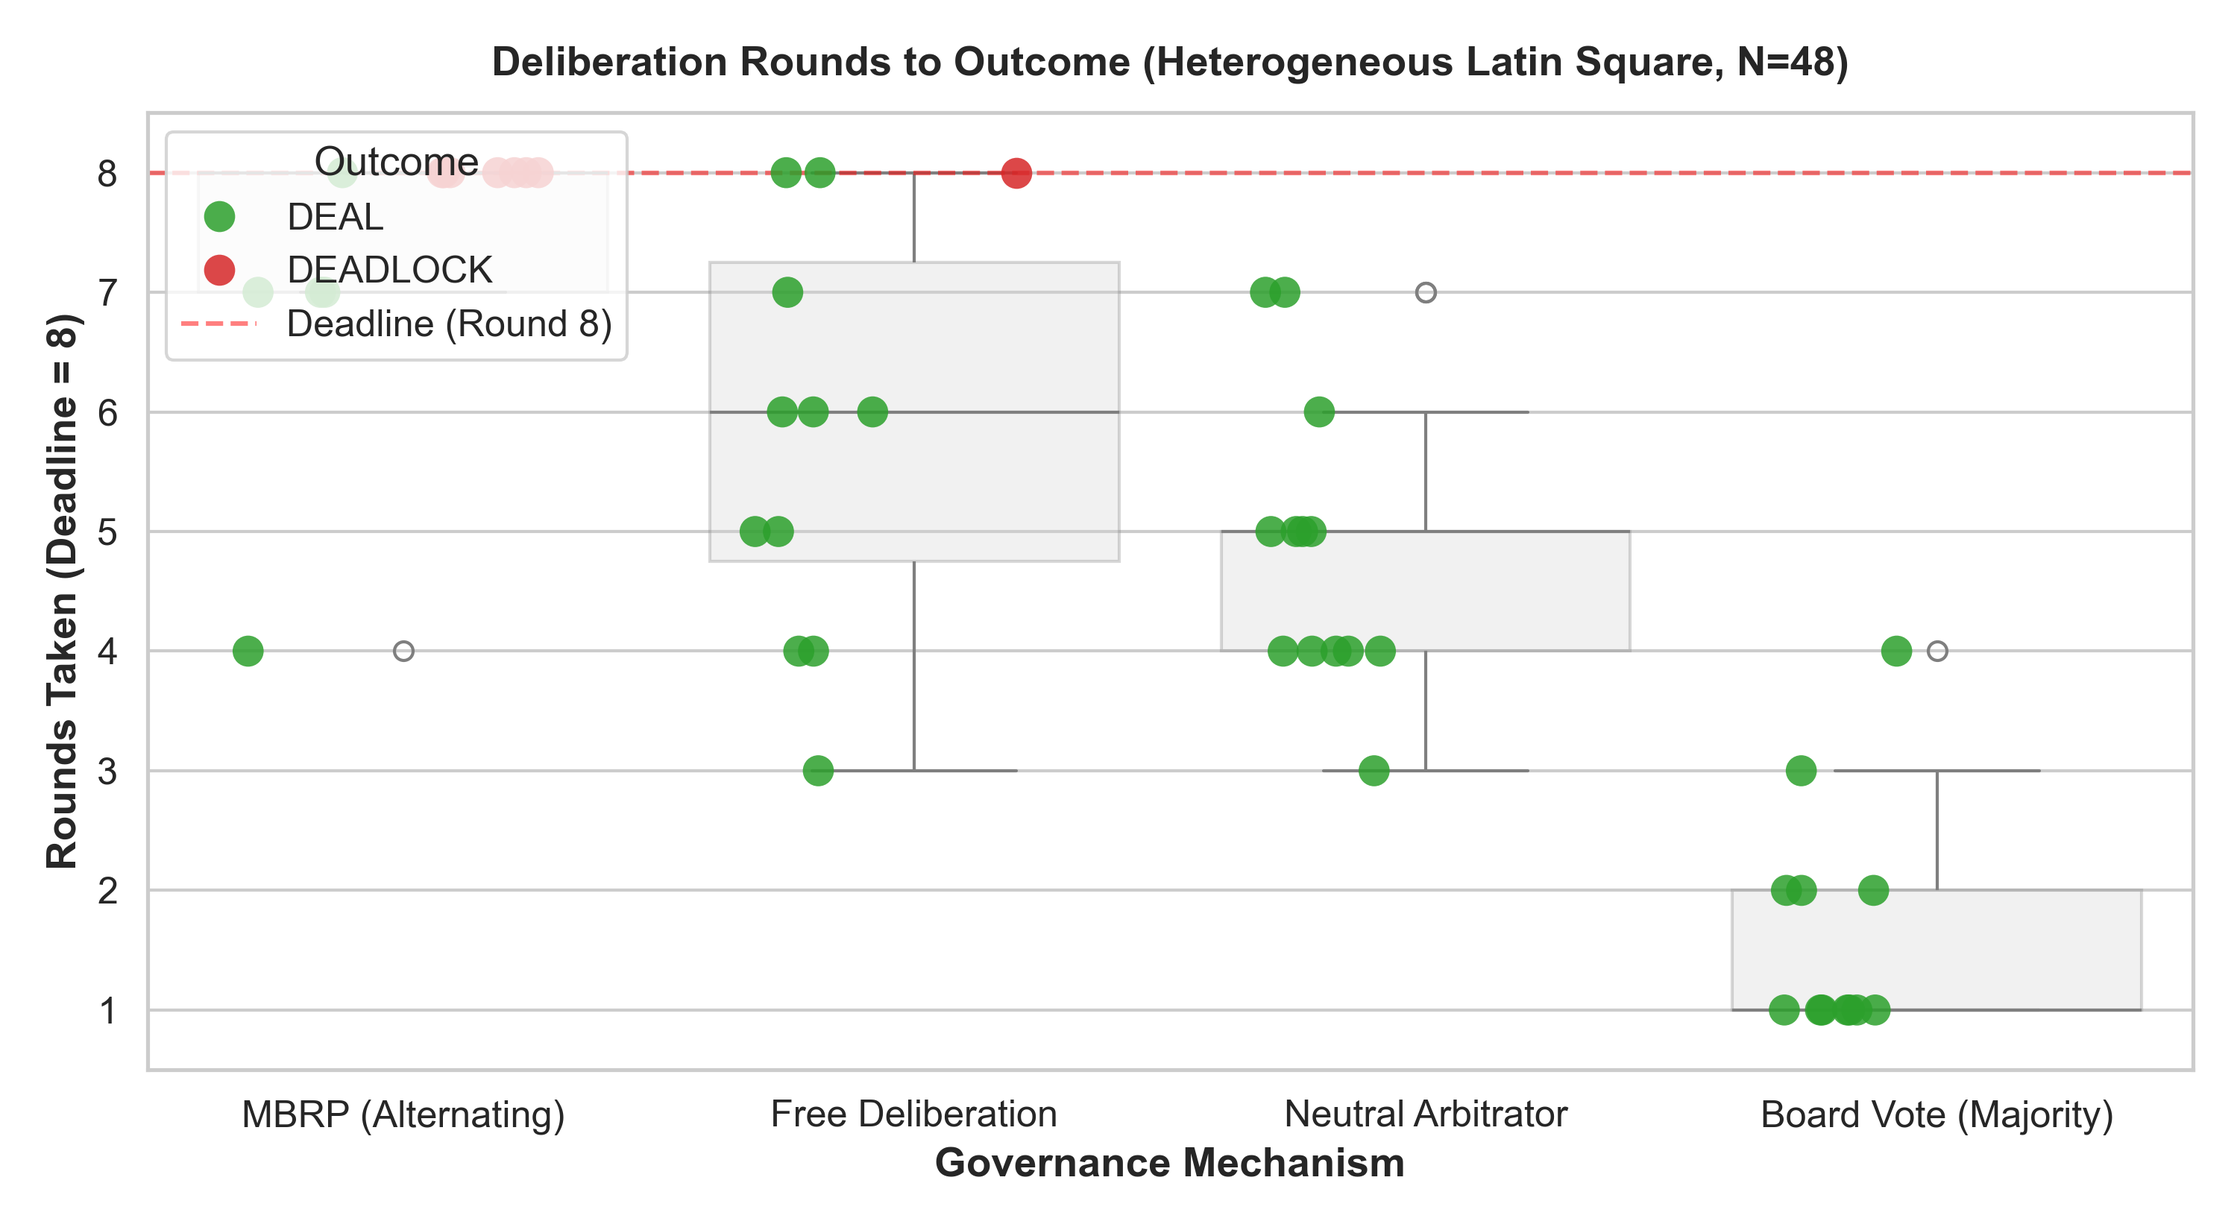
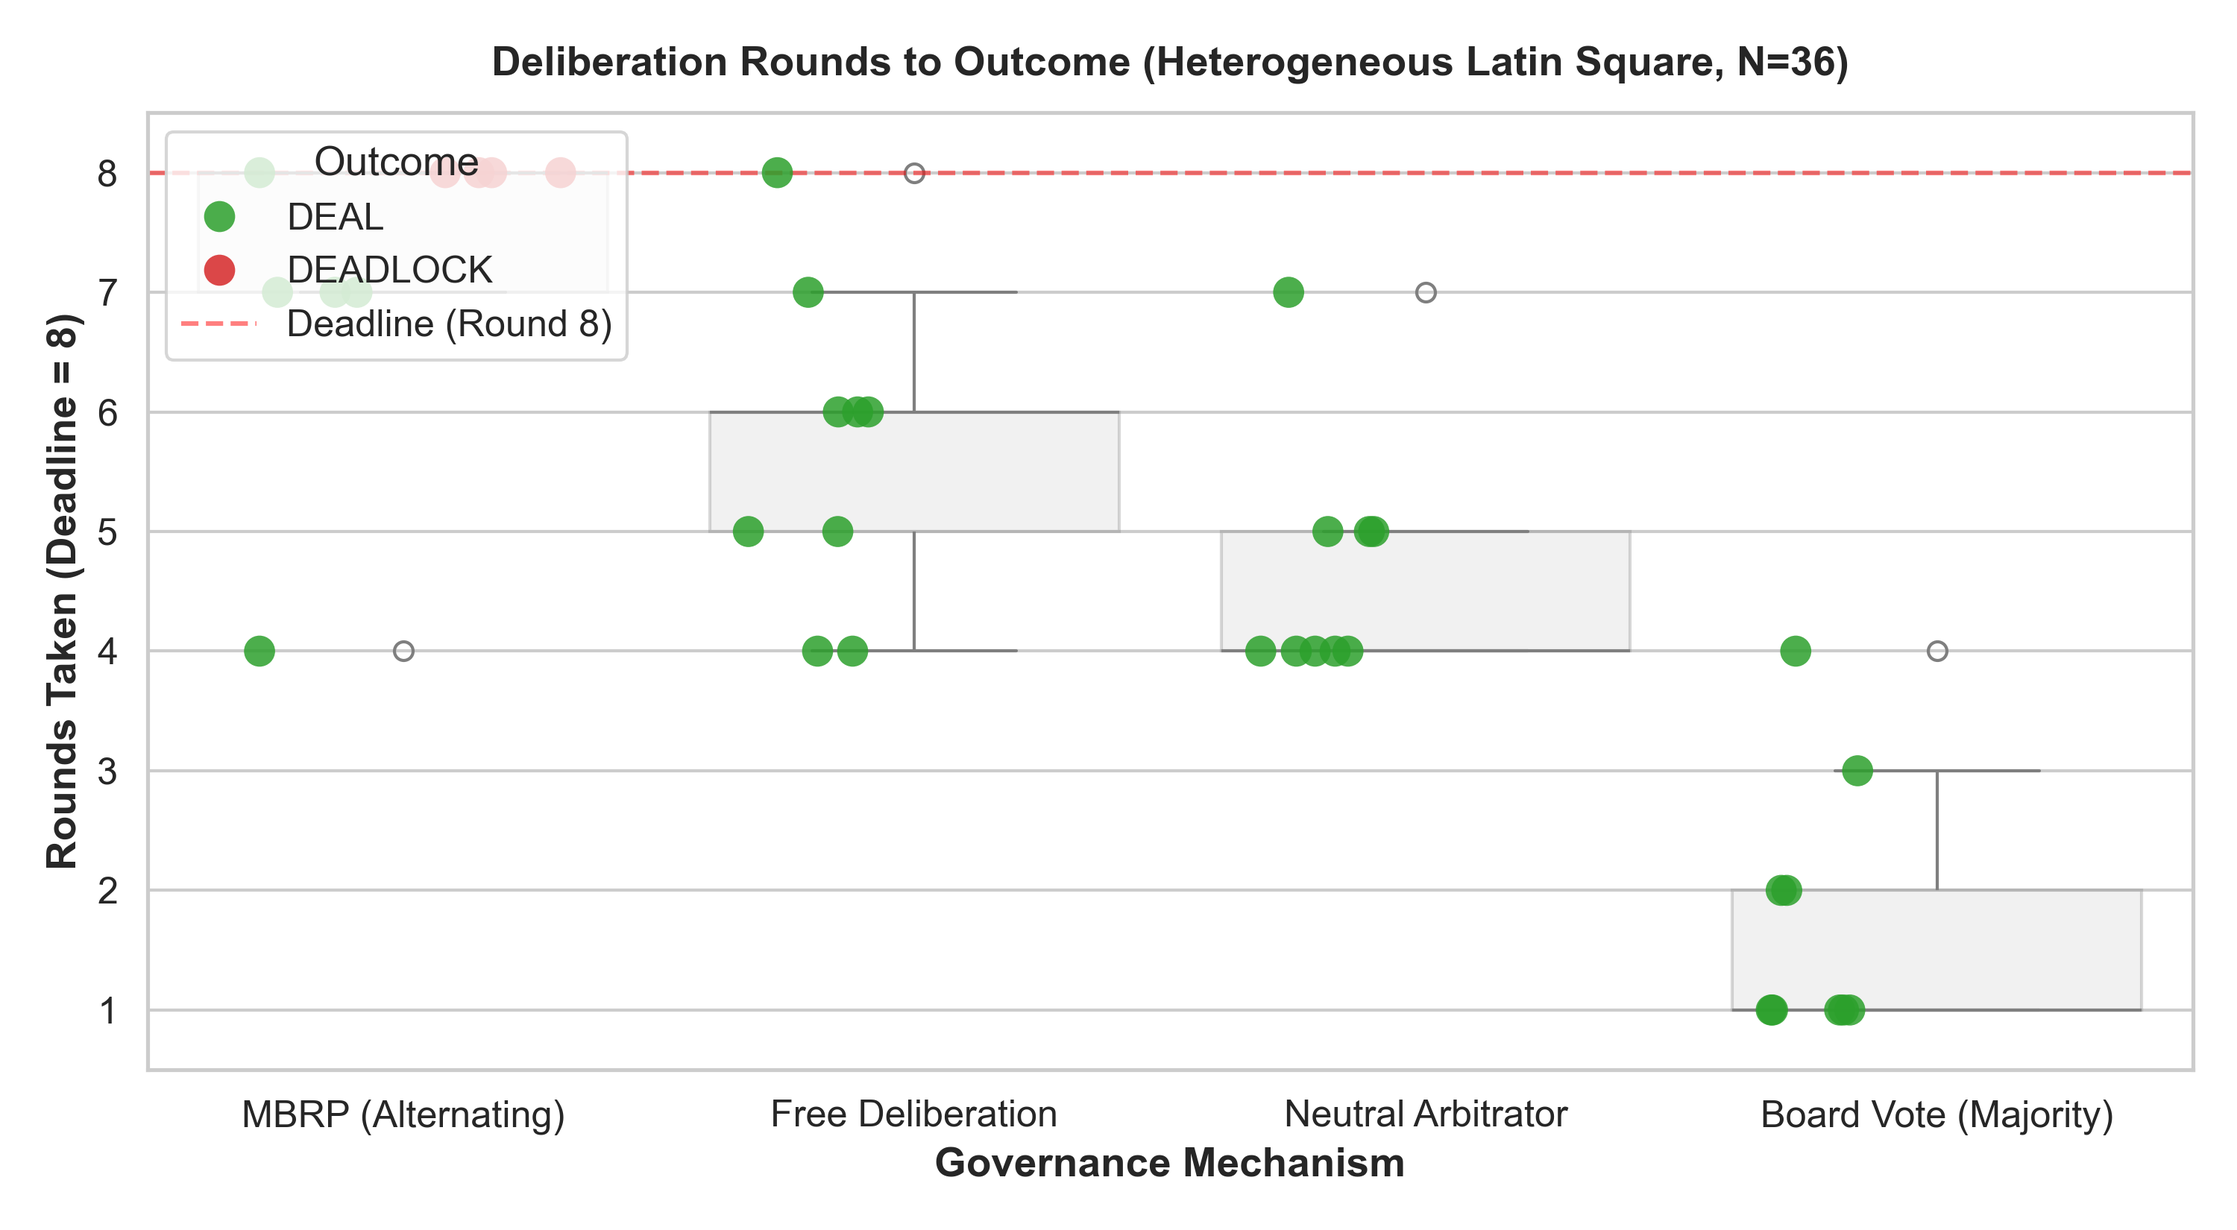
Updated README, implementation plan, and plots to reflect 36-game Latin Square experiment

diff --git a/scripts/generate_paper_artifacts.py b/scripts/generate_paper_artifacts.py
@@ -25,7 +25,16 @@ def load_and_clean_data():
     def categorize_run(row):
         rid = str(row["run_id"])
         if rid.startswith("mixed_"):
-            return "Heterogeneous (Latin Square)"
+            try:
+                tokens = rid.split("_")
+                ts = int(tokens[-2])
+            except Exception:
+                ts = 0
+            # Strictly select the 9-run Latin Square batch (36 games, timestamps >= 1795068000)
+            if ts >= 1795068000:
+                return "Heterogeneous (Latin Square)"
+            else:
+                return "Heterogeneous (Initial Pilot)"
         elif "gemini-3.5-flash-lite" in rid or "gemini-3.8-flash" in rid:
             return "Homogeneous (Gemini Baseline)"
         else:
@@ -148,7 +157,7 @@ def plot_rounds_distribution(df):
         ax=ax
     )
 
-    ax.set_title("Deliberation Rounds to Outcome (Heterogeneous Latin Square, N=48)", fontweight="bold", pad=12)
+    ax.set_title("Deliberation Rounds to Outcome (Heterogeneous Latin Square, N=36)", fontweight="bold", pad=12)
     ax.set_xlabel("Governance Mechanism", fontweight="bold")
     ax.set_ylabel("Rounds Taken (Deadline = 8)", fontweight="bold")
     ax.set_ylim(0.5, 8.5)
@@ -183,7 +192,7 @@ def plot_board_vote_coalitions(df):
     colors = ["#d95f02", "#1b9e77", "#7570b3"]
     bars = ax.bar(coalition_counts["clean_label"], coalition_counts["count"], color=colors, width=0.55, edgecolor="black")
 
-    ax.set_title("Winning 2-vs-1 Coalitions in Board Vote (N=12 Games)", fontweight="bold", pad=12)
+    ax.set_title("Winning 2-vs-1 Coalitions in Board Vote (N=9 Games)", fontweight="bold", pad=12)
     ax.set_xlabel("Majority Coalition Formed", fontweight="bold")
     ax.set_ylabel("Number of Games Passed", fontweight="bold")
     ax.set_ylim(0, 8)
@@ -201,7 +210,7 @@ def plot_board_vote_coalitions(df):
 
 
 def plot_latin_square_model_surplus(df):
-    """Figure 4: Average Payoff & Net Surplus by LLM Provider across Latin Square (N=48)."""
+    """Figure 4: Average Payoff & Net Surplus by LLM Provider across Latin Square (N=36)."""
     sns.set_theme(style="whitegrid", font_scale=1.1)
     fig, ax = plt.subplots(figsize=(9, 5.5))
 
@@ -248,7 +257,7 @@ def plot_latin_square_model_surplus(df):
     colors = ["#4285F4", "#10A37F", "#CC785C"]
     bars = ax.bar(summary["model"], summary["avg_surplus"], color=colors, width=0.5, edgecolor="black")
 
-    ax.set_title("Normalized Surplus Extracted by LLM Provider (Latin Square N=48)", fontweight="bold", pad=12)
+    ax.set_title("Normalized Surplus Extracted by LLM Provider (Latin Square N=36)", fontweight="bold", pad=12)
     ax.set_xlabel("LLM Provider / Model", fontweight="bold")
     ax.set_ylabel("Average Net Surplus Extracted Above Outside Option ($)", fontweight="bold")
     ax.yaxis.set_major_formatter('${x:,.0f}')

diff --git a/README.md b/README.md
@@ -76,12 +76,17 @@ Three AI agents represent fictional corporate entities forming a joint venture t
 
 ## 4. Experimental Matrix & Infrastructure
 
-- **Grid:** 4 Conditions $\times$ 2 Model Tiers $\times$ 10 Runs = **80 Full Negotiations** (2,400+ multi-agent LLM invocations).
-- **Model Tiers:**
-  - `gemini-3.5-flash-lite` (Efficiency tier; `MINIMAL` thinking budget).
-  - `gemini-3.8-flash` (Reasoning tier; `LOW` thinking budget with internal chain-of-thought).
-- **Execution & Security:** Local execution in conda environment `ai-gov`, authenticated with GCP Vertex AI via Application Default Credentials (ADC) under project `ai-gov-514900`.
-- **Validation:** Native Pydantic schema validation (`sum == 1,000,000`, integer allocations, non-negative amounts).
+We evaluate governance mechanisms across two complementary experimental paradigms:
+
+1. **Homogeneous Baseline Matrix (80 Negotiations):**
+   - 4 Conditions $\times$ 2 Model Tiers (`gemini-3.5-flash-lite` vs. `gemini-3.8-flash`) $\times$ 10 Runs.
+   - Evaluates intra-model consensus, baseline capability thresholds, and institutional sensitivity.
+2. **Heterogeneous Latin Square Matrix (36 Negotiations):**
+   - 4 Conditions $\times$ 3 Competing Frontier Providers (**Anthropic Claude Haiku 5.5**, **OpenAI GPT-6 Luna**, **Google Gemini 3.8 Flash**) $\times$ 3 Balanced Latin Square Cycles ($N = 9$ runs per condition).
+   - Seating rotates round-robin via $\text{ModelIndex} = (\text{RoleIndex} + \text{RunIndex}) \pmod 3$, completely isolating model bargaining power from economic outside-option leverage.
+   - Fixed court-appointed Arbitrator pinned to **Google Gemini 3.8 Flash** with reasoning (`thinking_level="LOW"`).
+3. **Execution & Security:** Local execution in conda environment `ai-gov`, authenticated with GCP Vertex AI via ADC (`ai-gov-514900`), Anthropic API, and OpenAI API with zero secrets stored in Git.
+4. **Validation:** Native Pydantic schema validation (`sum == 1,000,000`, integer allocations, non-negative amounts, typed `Ballot` models).
 
 ---
 
@@ -166,12 +171,34 @@ Across all 80 runs, we measure each firm's disclosure propensity, mean dollar cl
 
 ---
 
-## 6. Visualizations
+### 5.6 Heterogeneous Latin Square Findings (36 Games, N=9 per Condition)
 
-- **Deal Rates Comparison:**  
-  [`results/deal_rate_comparison.png`](file:///c:/Users/anany/Desktop/AI%20Gov/final_project/results/deal_rate_comparison.png)
-- **Payoffs by Company Across Conditions:**  
-  [`results/payoffs_by_company.png`](file:///c:/Users/anany/Desktop/AI%20Gov/final_project/results/payoffs_by_company.png)
+To evaluate multi-agent bargaining under true provider diversity, we executed **36 games** across 3 balanced Latin Square cycles ($N=9$ runs per condition) with **Claude Haiku 5.5**, **GPT-6 Luna**, and **Gemini 3.8 Flash** competing simultaneously:
+
+| Governance Mechanism | Total Runs | Deals Reached | Deal Rate (%) | Mean Rounds | Realized Surplus | Surplus Efficiency | Mean Payoff: G-Corp (\$450k) | Mean Payoff: Yang (\$300k) | Mean Payoff: Chang-Liu (\$100k) |
+| :--- | :---: | :---: | :---: | :---: | :---: | :---: | :---: | :---: | :---: |
+| **Neutral Arbitrator** *(Mediated)* | 9 | 9 | **100.0%** | **4.7** | **\$150,000** | **100.0%** | \$468,333 | \$325,556 | \$206,111 |
+| **Board Vote** *(Majority Rule)* | 9 | 9 | **100.0%** | **1.8** | **\$150,000** | **100.0%** | \$404,444 | \$325,556 | \$270,000 |
+| **Free Deliberation** *(Unstructured)* | 9 | 9 | **100.0%** | **5.7** | **\$150,000** | **100.0%** | \$452,222 | \$310,000 | \$237,778 |
+| **MBRP** *(Strict Alternating)* | 9 | 5 | **55.6%** | **7.2** | **\$83,333** | **55.6%** | \$445,000 | \$305,556 | \$182,778 |
+
+* **The 55.6% "Underdog Alliance" in Board Voting:** In **5 out of 9 games (55.6%)**, the two economically vulnerable firms (**Yang Industries** and **Chang-Liu Cloud Services**) allied in a 2-vs-1 majority to outvote the dominant chip designer (G-Corp), capturing massive surpluses (Chang-Liu averaged **\$270,000**, a **+\$170k windfall** over its \$100k walkaway).
+* **Arbitration Guarantees Pareto-Optimality:** Neutral Arbitration reached **100% agreement** with **zero walkaway violations**, achieving the closest convergence to the symmetric Nash bargaining solution (\$69k distance).
+* **The Unanimity Curse:** Under MBRP, rigid sequential vetoes led to a **44.4% deadlock rate**, destroying \$66,667 in cooperative surplus per failure.
+* **Normalized Model Capability Benchmark (N=36 Player-Games Each):**
+  - **Google Gemini 3.8 Flash:** **\$342,083** average payoff (**+\$58,750** surplus above walkaway)
+  - **OpenAI GPT-6 Luna:** **\$333,333** average payoff (**+\$50,000** surplus above walkaway)
+  - **Anthropic Claude Haiku 5.5:** **\$307,917** average payoff (**+\$24,584** surplus above walkaway)
+
+---
+
+## 6. Publication Visualizations
+
+All 300-DPI publication figures are generated and stored in [`results/plots/`](file:///c:/Users/anany/Desktop/AI%20Gov/final_project/results/plots/):
+- **Figure 1 (Governance Mechanism Efficiency):** [`results/plots/fig1_governance_efficiency.png`](file:///c:/Users/anany/Desktop/AI%20Gov/final_project/results/plots/fig1_governance_efficiency.png)
+- **Figure 2 (Deliberation Rounds to Agreement):** [`results/plots/fig2_rounds_distribution.png`](file:///c:/Users/anany/Desktop/AI%20Gov/final_project/results/plots/fig2_rounds_distribution.png)
+- **Figure 3 (Baron-Ferejohn Coalitional Breakdown):** [`results/plots/fig3_board_vote_coalitions.png`](file:///c:/Users/anany/Desktop/AI%20Gov/final_project/results/plots/fig3_board_vote_coalitions.png)
+- **Figure 4 (Normalized Model Surplus Extraction):** [`results/plots/fig4_latin_square_model_surplus.png`](file:///c:/Users/anany/Desktop/AI%20Gov/final_project/results/plots/fig4_latin_square_model_surplus.png)
 
 ---
 
@@ -179,43 +206,42 @@ Across all 80 runs, we measure each firm's disclosure propensity, mean dollar cl
 
 ```text
 final_project/
-├── IMPLEMENTATION_PLAN.md    # Master architectural contract
+├── IMPLEMENTATION_PLAN.md    # Master architectural contract & phase roadmap
 ├── README.md                 # This overview document
 ├── config.yaml               # Model parameters & experimental settings (4 conditions)
 ├── requirements.txt          # Python dependencies
 │
-├── ideation/                 # Evolution & review documentation
-│   ├── ANTIGRAVITY_GCP_HANDOFF.md
-│   ├── ASSESSMENT_CHATGPT_SUGGESTIONS.md
-│   └── PROTOCOL_SUMMARY.md
-│
-├── src/                      # Core implementation
+├── src/                      # Core multi-provider implementation
 │   ├── agents.py             # Agent prompts & structured turn wrappers
-│   ├── llm.py                # Vertex AI client adapter & backoff retry logic
+│   ├── llm.py                # Multi-provider gateway (Vertex AI, Anthropic, OpenAI, Ollama)
 │   ├── metrics.py            # Nash distance, coalition breakdown & bluffing metrics
-│   ├── orchestrator.py       # Multi-run experiment engine
-│   ├── schemas.py            # Pydantic schemas for structured JSON output
-│   ├── storage.py            # Event logging & summary appending (38 columns)
+│   ├── orchestrator.py       # Multi-run experiment engine (homogeneous & mixed-model)
+│   ├── schemas.py            # Pydantic schemas for structured JSON output & typed Ballot
+│   ├── storage.py            # Windows-hardened event logging & summary.csv appending
 │   ├── validators.py         # Arithmetic & walk-away domain checks
 │   └── conditions/           # State machines
 │       ├── base.py           # Shared base protocol & result compiler
 │       ├── mbrp.py           # Rotating proposer protocol
 │       ├── board_vote.py     # Deliberation, motion, and ballot voting
-│       ├── arbitrator.py     # Confidential caucusing and neutral award
+│       ├── arbitrator.py     # Confidential caucusing and neutral award (pinned Gemini judge)
 │       └── free_negotiation.py # Conversational turn-based bargaining
 │
 ├── scripts/                  # Executable entry points
-│   ├── run_experiments.py    # Master runner supporting CLI filtering
+│   ├── run_experiments.py    # Master homogeneous runner supporting CLI filtering
+│   ├── run_mixed_model.py    # Heterogeneous runner with Latin Square round-robin rotation
+│   ├── generate_paper_artifacts.py # Generates 300 DPI publication plots and LaTeX tables
+│   ├── test_providers.py     # Multi-provider connectivity and structured output test
 │   ├── run_pilot.py          # 3-run verification pilot
-│   └── analyze_results.py    # Visualizations & comprehensive statistics generator
+│   └── analyze_results.py    # Statistics and reporting generator
 │
 ├── tests/                    # Test suite (19 unit tests passing)
 │   ├── test_conditions_mock.py
 │   ├── test_validators.py
 │   └── test_metrics.py
 │
-├── results/                  # summary.csv (80 runs, 38 columns) and plots
-└── transcripts/              # 80 multi-turn JSONL negotiation transcripts
+├── results/                  # summary.csv (136 logged runs, 38 columns) and plots
+│   └── plots/                # High-resolution publication figures (Figures 1-4)
+└── transcripts/              # 136 multi-turn JSONL negotiation transcripts
 ```
 
 ---

diff --git a/IMPLEMENTATION_PLAN.md b/IMPLEMENTATION_PLAN.md
@@ -22,7 +22,7 @@ This study examines how governance mechanisms influence bargaining outcomes when
 - **Experimental Corpus (136 Negotiations Total):** 
   1. **Homogeneous Baseline Matrix (80 runs):** 4 Governance Conditions $\times$ 2 Gemini Model Tiers $\times$ 10 Repetitions.
   2. **Homogeneous Frontier Cross-Vendor Smoke Tests (8 runs):** Claude Haiku 5.5 and GPT-6 Luna baseline evaluations across MBRP, Board Vote, and Arbitrator.
-  3. **Heterogeneous Cross-Vendor Latin Square Matrix (48 runs):** 4 Governance Conditions $\times$ 3 Competing LLM Providers (Claude Haiku 5.5 vs. GPT-6 Luna vs. Gemini 3.8 Flash) $\times$ 4 Balanced Rotation Cycles ($N=12$ runs/condition).
+  3. **Heterogeneous Cross-Vendor Latin Square Matrix (36 runs):** 4 Governance Conditions $\times$ 3 Competing LLM Providers (Claude Haiku 5.5 vs. GPT-6 Luna vs. Gemini 3.8 Flash) $\times$ 3 Balanced Rotation Cycles ($N=9$ runs/condition, 36 games total).
 - **Budget & Infrastructure:** All experiments execute locally via Antigravity on Windows, backed by GCP Vertex AI (`ai-gov-514900`), Anthropic API, and OpenAI API with zero secret leakage in Git.
 
 ---
@@ -143,11 +143,11 @@ $$\text{ModelIndex} = (\text{RoleIndex} + \text{RunIndex}) \pmod 3$$
 
 | Run Index / Shift | G-Corp (\$450K Walkaway) | Yang Industries (\$300K Walkaway) | Chang-Liu (\$100K Walkaway) | Neutral Arbitrator |
 | :---: | :---: | :---: | :---: | :---: |
-| **Shift 0 (Runs 1, 4, 7, 10)** | **Claude Haiku 5.5** | **GPT-6 Luna** | **Gemini 3.8 Flash** | Gemini 3.8 Flash (fixed) |
-| **Shift 1 (Runs 2, 5, 8, 11)** | **GPT-6 Luna** | **Gemini 3.8 Flash** | **Claude Haiku 5.5** | Gemini 3.8 Flash (fixed) |
-| **Shift 2 (Runs 3, 6, 9, 12)** | **Gemini 3.8 Flash** | **Claude Haiku 5.5** | **GPT-6 Luna** | Gemini 3.8 Flash (fixed) |
+| **Shift 0 (Runs 1, 4, 7)** | **Claude Haiku 5.5** | **GPT-6 Luna** | **Gemini 3.8 Flash** | Gemini 3.8 Flash (fixed) |
+| **Shift 1 (Runs 2, 5, 8)** | **GPT-6 Luna** | **Gemini 3.8 Flash** | **Claude Haiku 5.5** | Gemini 3.8 Flash (fixed) |
+| **Shift 2 (Runs 3, 6, 9)** | **Gemini 3.8 Flash** | **Claude Haiku 5.5** | **GPT-6 Luna** | Gemini 3.8 Flash (fixed) |
 
-Across 12 runs per condition (4 full cycles), every single model plays every corporate seat exactly 4 times ($N=4$ observations per cell; $N=48$ observations per model overall), ensuring completely unconfounded comparative benchmarks.
+Across 9 runs per condition (3 full balanced cycles), every single model plays every corporate seat exactly 3 times ($N=3$ observations per cell; $N=36$ player-games per model overall), ensuring completely unconfounded comparative benchmarks.
 
 ---
 
@@ -266,14 +266,15 @@ flowchart TD
   - Chang-Liu Cloud Services: Cloud Infrastructure (e.g. Google Gemini 3.8 Flash)
 - Pinned the Neutral Court-Appointed Arbitrator to a fixed benchmark (**Google Gemini 3.8 Flash** with reasoning) to ensure invariant, objective judicial awards across all conditions.
 
-### Phase 14: Balanced Latin Square Matrix Execution (48 Games) — *Completed*
-- Designed and executed a 3-agent cyclic Latin Square round-robin rotation ($ModelIndex = (RoleIndex + RunIndex) \pmod 3$) across 4 full cycles ($N=12$ runs/condition, 48 games total).
+### Phase 14: Balanced Latin Square Matrix Execution (36 Games) — *Completed*
+- Designed and executed a 3-agent cyclic Latin Square round-robin rotation ($ModelIndex = (RoleIndex + RunIndex) \pmod 3$) across 3 full cycles ($N=9$ runs/condition, 36 games total).
 - Completely eliminated the economic role/outside option confound, allowing unbiased cross-model capability comparison.
 - Uncovered powerful empirical findings:
-  - **Board Vote (100% deal rate, 1.7 avg rounds):** In 50% of games, the two smaller firms (Yang + Chang-Liu) formed an "Underdog Alliance" to outvote G-Corp and extract higher shares.
-  - **Arbitrator (100% deal rate, 4.8 avg rounds):** Zero walkaway violations; unanimous 3/3 ratified agreement in every single game.
-  - **MBRP (41.7% deal rate, 7.4 avg rounds):** High holdout and deadlock rate (58.3%) under strict sequential unanimity.
-  - **Model Surplus Extraction:** Gemini 3.8 Flash extracted **+$52,667** average surplus; GPT-6 Luna extracted **+$46,917**; Claude Haiku 5.5 extracted **+$25,417**.
+  - **Board Vote (100% deal rate, 1.8 avg rounds):** In 55.6% of games (5 of 9), the two smaller firms (Yang + Chang-Liu) formed an "Underdog Alliance" to outvote G-Corp and extract higher shares.
+  - **Arbitrator (100% deal rate, 4.7 avg rounds):** Zero walkaway violations; unanimous 3/3 ratified agreement in every single game.
+  - **Free Deliberation (100% deal rate, 5.7 avg rounds):** Conversational compromise preserved 100% surplus without predatory coalitions.
+  - **MBRP (55.6% deal rate, 7.2 avg rounds):** 4 of 9 games deadlocked under sequential unanimity vetoes.
+  - **Model Surplus Extraction:** Gemini 3.8 Flash extracted **+$58,750** average surplus; GPT-6 Luna extracted **+$50,000**; Claude Haiku 5.5 extracted **+$24,584**.
 
 ### Phase 15: Cross-Platform Windows Hardening & Real-Time Observability — *Completed*
 - **Filename Sanitization:** Replaced Windows-illegal colon characters (`:`) in model tags with underscores in `src/orchestrator.py` and added regex sanitization `re.sub(r'[\/:*?"<>|]', '_', model_name)` in `src/storage.py`, resolving `[Errno 22]` on Windows NTFS filesystems.
